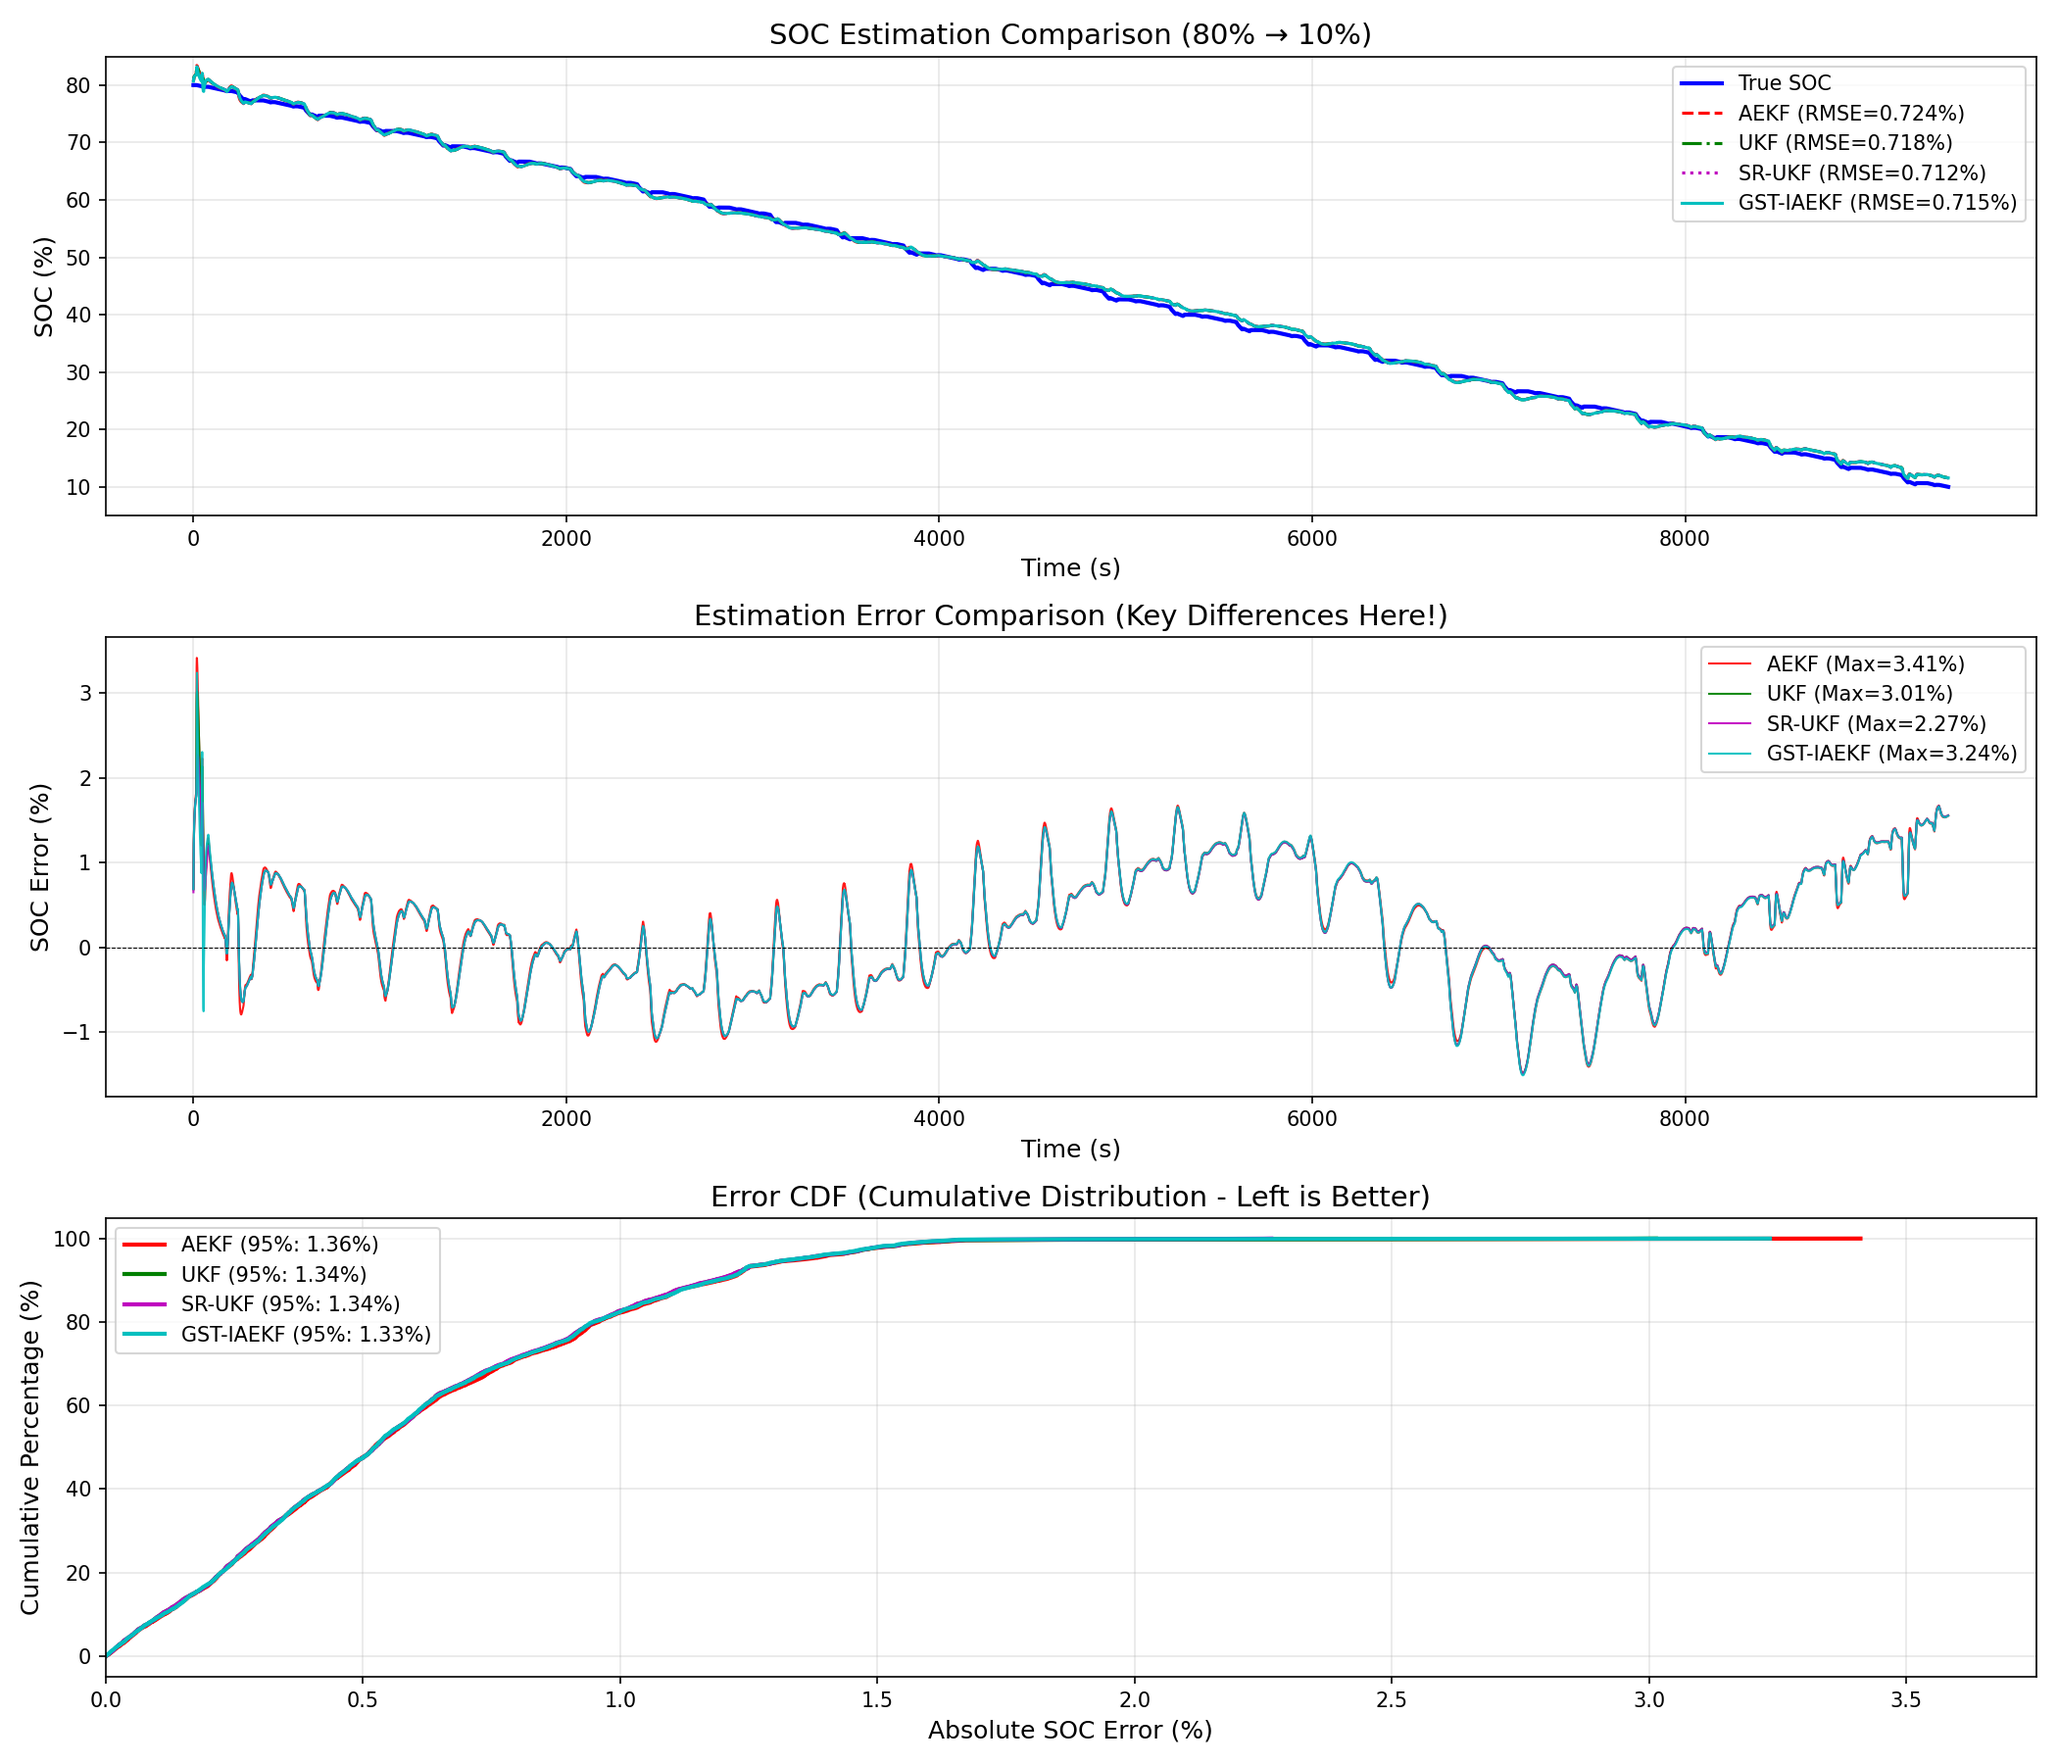
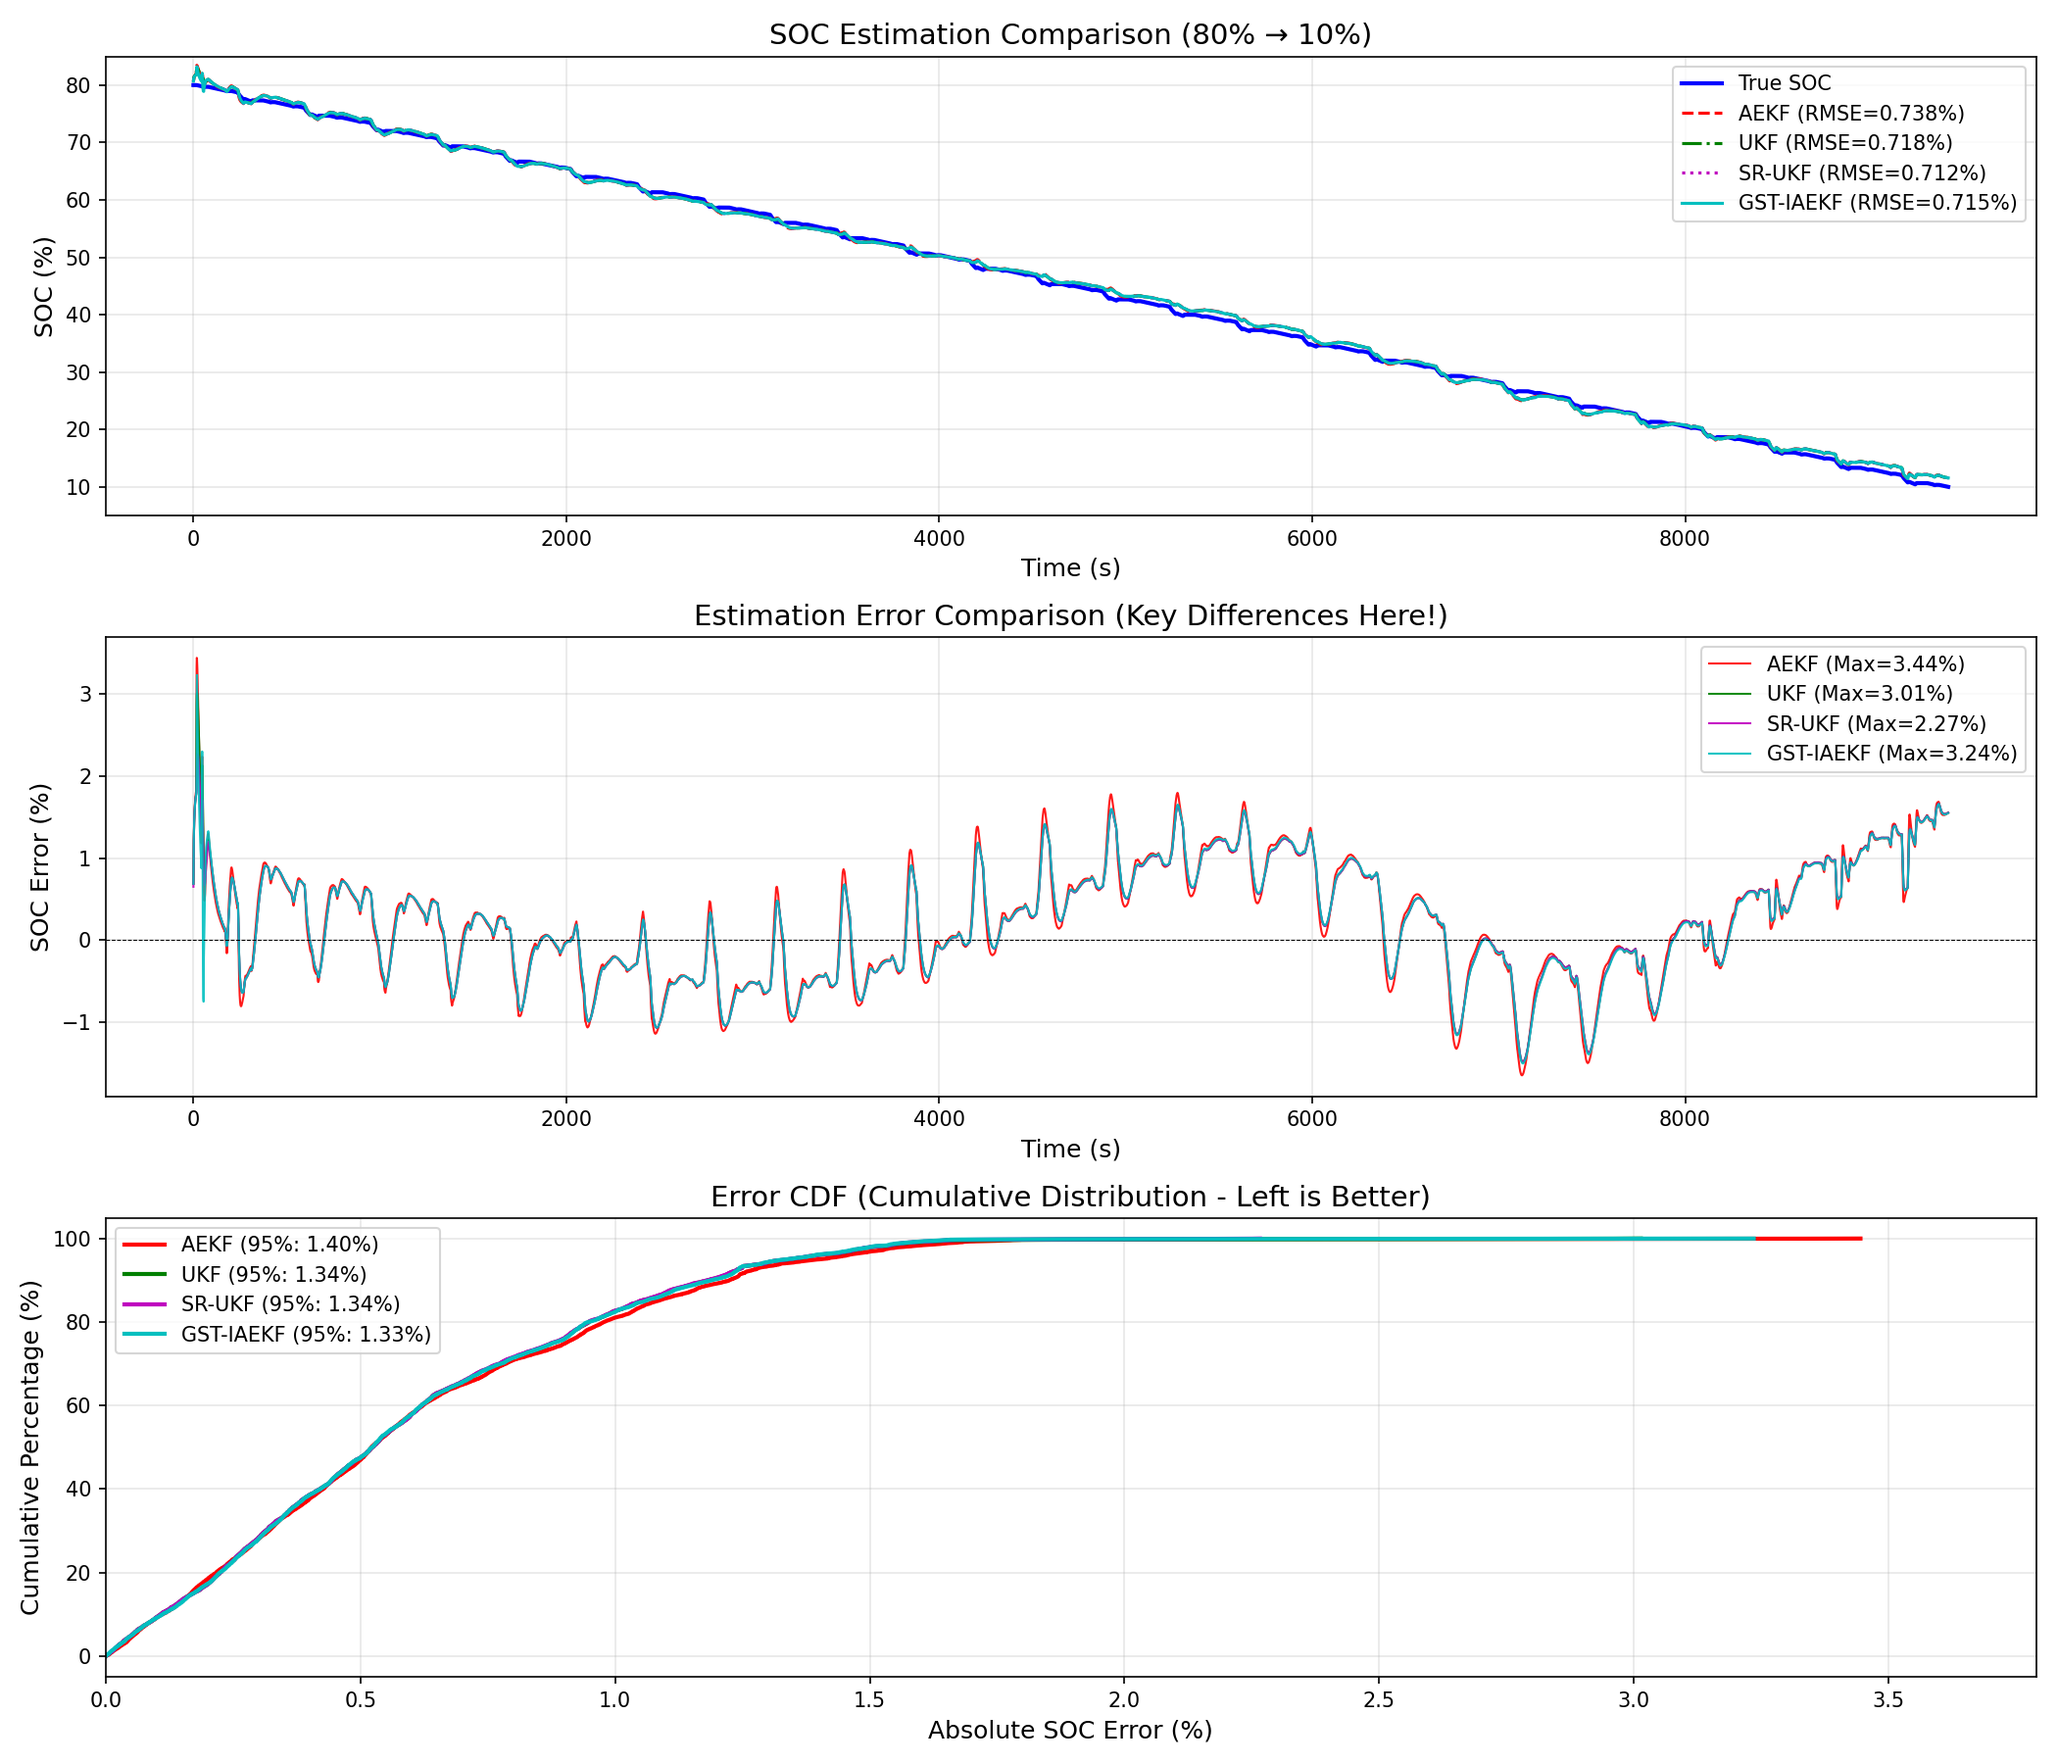
modifiy aekf algorithm

diff --git a/algorithms/functions/sr_ukf.py b/algorithms/functions/sr_ukf.py
@@ -328,7 +328,10 @@ class RobustSRUKF:
 
     def predict(self, current: float):
         """
-        预测步骤（平方根形式）
+        预测步骤（严格平方根形式）
+
+        使用QR分解直接传播平方根因子S，而非先算P再cholesky。
+        这是严格的SR-UKF实现，全流程保持平方根传播。
 
         Args:
             current: 电流 (A)
@@ -349,25 +352,55 @@ class RobustSRUKF:
         # SOC边界约束
         self.x[0] = np.clip(self.x[0], 0, 1)
 
-        # 计算预测协方差平方根 (直接方法，更稳健)
-        # 先计算完整的P矩阵，再做Cholesky分解
-        P = np.zeros((self.n, self.n))
-        for i in range(n_sigma):
+        # ============ 严格SR-UKF：使用QR分解直接传播S ============
+        # 构造用于QR分解的矩阵：
+        # A = [sqrt(Wc[1])*(χ_1 - x̄), ..., sqrt(Wc[2n])*(χ_2n - x̄), sqrt(Q)]^T
+        # 注意：第0个sigma点的权重Wc[0]可能为负，需要单独处理
+
+        # 先处理 i=1 到 2n 的sigma点（权重都是正的）
+        n_cols = 2 * self.n  # 不包括第0个点
+        A = np.zeros((n_cols + self.n, self.n))  # (2n + n) x n
+
+        for i in range(1, n_sigma):
             diff = sigma_points_pred[:, i] - self.x
-            P += self.Wc[i] * np.outer(diff, diff)
-        P += self.Q
+            A[i-1, :] = np.sqrt(np.abs(self.Wc[i])) * diff
 
-        # 确保对称正定
-        P = (P + P.T) / 2
-        min_eig = np.min(np.linalg.eigvalsh(P))
-        if min_eig < 1e-10:
-            P = P + (1e-10 - min_eig) * np.eye(self.n)
+        # 添加过程噪声的平方根
+        A[n_cols:, :] = self.sqrt_Q.T  # sqrt_Q是下三角，转置后每行是一个方向
 
+        # QR分解得到S（R的转置的下三角部分）
         try:
+            _, R = np.linalg.qr(A)
+            S_new = R.T  # 转为下三角形式
+
+            # 确保对角元素为正
+            for i in range(self.n):
+                if S_new[i, i] < 0:
+                    S_new[i, :] = -S_new[i, :]
+
+            # 处理第0个sigma点（Wc[0]可能为负）
+            diff_0 = sigma_points_pred[:, 0] - self.x
+            if self.Wc[0] >= 0:
+                # 正权重：cholupdate
+                S_new = self._cholupdate(S_new, np.sqrt(self.Wc[0]) * diff_0, +1)
+            else:
+                # 负权重：choldowndate
+                S_new = self._cholupdate(S_new, np.sqrt(-self.Wc[0]) * diff_0, -1)
+
+            self.S = S_new
+
+        except Exception:
+            # QR失败时回退到传统方法
+            P = np.zeros((self.n, self.n))
+            for i in range(n_sigma):
+                diff = sigma_points_pred[:, i] - self.x
+                P += self.Wc[i] * np.outer(diff, diff)
+            P += self.Q
+            P = (P + P.T) / 2
+            min_eig = np.min(np.linalg.eigvalsh(P))
+            if min_eig < 1e-10:
+                P = P + (1e-10 - min_eig) * np.eye(self.n)
             self.S = np.linalg.cholesky(P)
-        except np.linalg.LinAlgError:
-            # 如果Cholesky失败，添加更多正则化
-            self.S = np.linalg.cholesky(P + 1e-8 * np.eye(self.n))
 
         self.sigma_points_pred = sigma_points_pred
 

diff --git a/algorithms/functions/aekf.py b/algorithms/functions/aekf.py
@@ -181,7 +181,8 @@ class AEKF:
         C = self.model.get_observation_jacobian(self.x, current)
 
         # 计算卡尔曼增益
-        S = C @ self.P @ C.T + self.R  # 新息协方差
+        S = C @ self.P @ C.T + self.R  # 新息协方差（预测阶段）
+        S_prior = S  # 保存预测阶段的S，用于后续Q自适应
         K = self.P @ C.T / S
 
         # 状态更新
@@ -190,9 +191,10 @@ class AEKF:
         # SOC边界约束
         self.x[0] = np.clip(self.x[0], 0, 1)
 
-        # 协方差更新
+        # 协方差更新 - 使用Joseph形式（数值稳定）
+        # P = (I - KC) @ P @ (I - KC)^T + K @ R @ K^T
         I_KC = np.eye(self.n_states) - np.outer(K, C)
-        self.P = I_KC @ self.P
+        self.P = I_KC @ self.P @ I_KC.T + np.outer(K, K) * self.R
 
         # 确保协方差矩阵对称和正定
         self.P = (self.P + self.P.T) / 2
@@ -201,9 +203,9 @@ class AEKF:
         if self.adaptive_Q:
             # 基于新息的自适应方法（使用指数加权平滑）
             alpha_Q = 0.98  # 平滑因子，避免Q剧烈变化
-            # 计算新息协方差的估计值
-            S = C @ self.P @ C.T + self.R
-            Q_innovation = np.outer(K, K) * S  # 使用新息协方差而非新息平方
+            # 使用预测阶段的S_prior（更新前），而非更新后的P重新计算
+            # 这样保持时序一致性：用预测时的统计量来调整Q
+            Q_innovation = np.outer(K, K) * S_prior  # 使用预测阶段的新息协方差
             self.Q = alpha_Q * self.Q + (1 - alpha_Q) * Q_innovation
             # 添加上下界约束，防止Q过大或过小导致发散
             self.Q = np.clip(self.Q, self.Q_init * 0.1, self.Q_init * 10)
